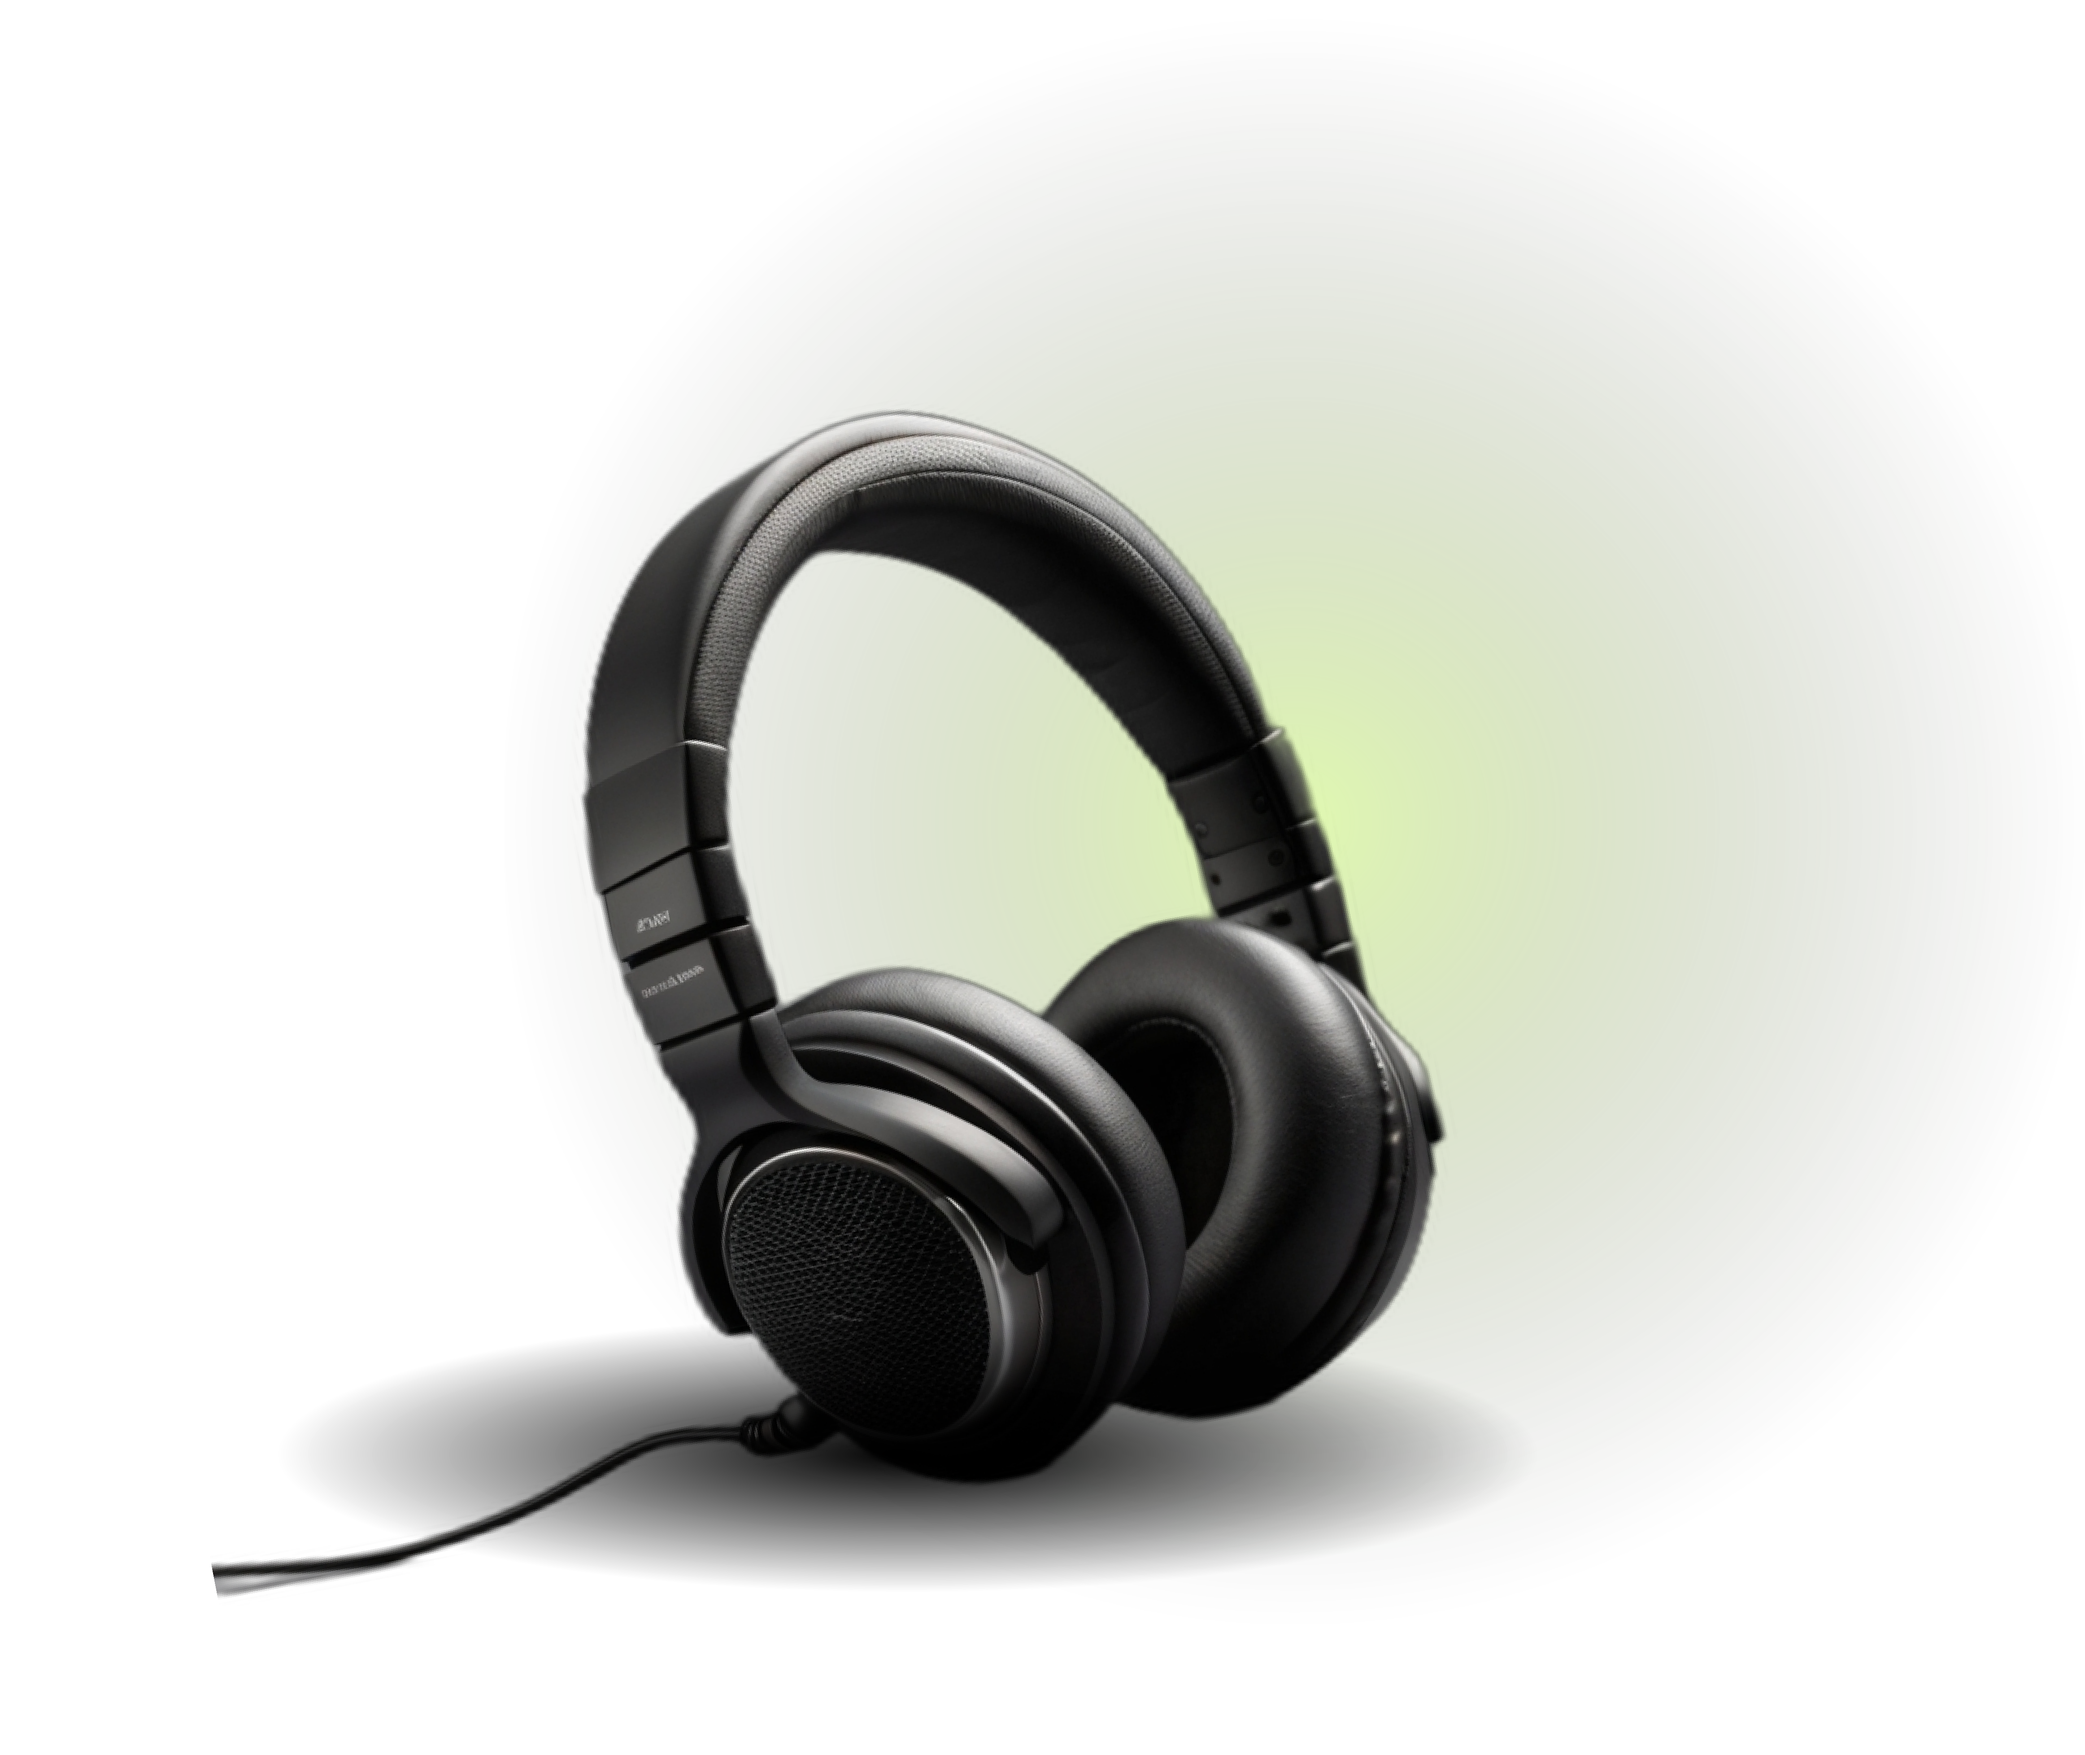
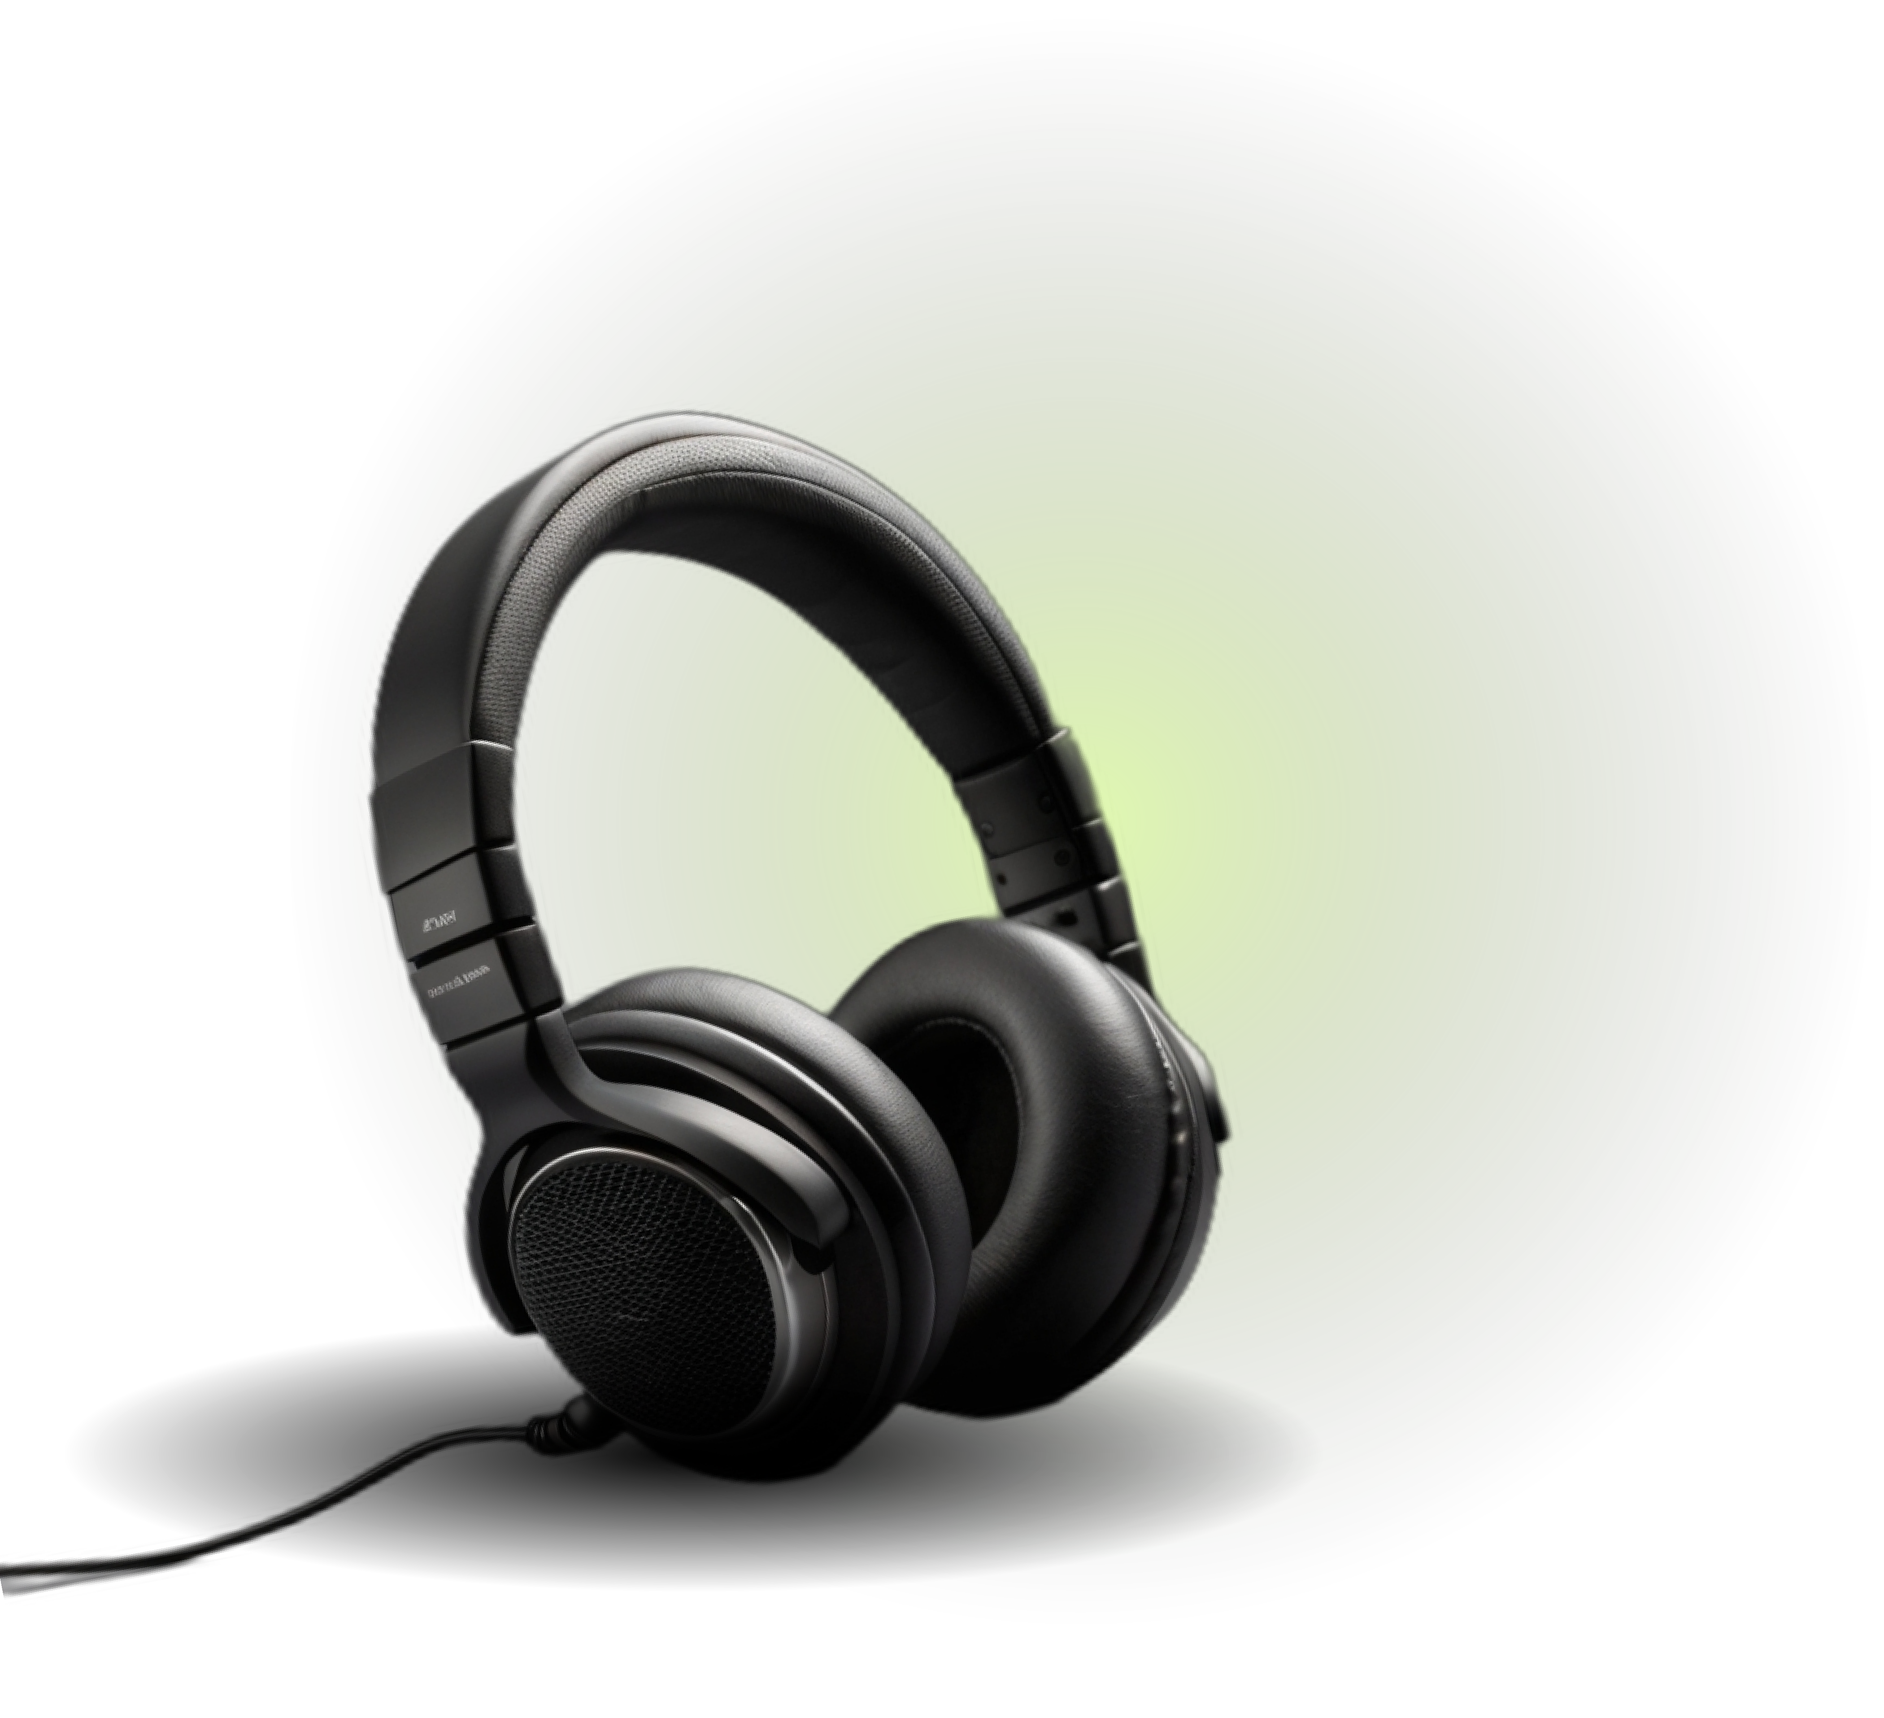
Added first item to 'products' section

Changed region(s): [[0.0, 0.2175, 0.7172, 0.9321]]

diff --git a/src/style.scss b/src/style.scss
@@ -21,16 +21,20 @@ $main-green: #b1ef3a;
 
 html {
 	font-size: 62.5%;
+	scroll-behavior: smooth;
 }
 
 body {
+	display: flex;
 	max-width: 1920px;
-	// height: 100svh;
+	height: 100svh;
 	font-size: 1.6rem;
 	font-family: var(--font-regular);
 	background-image: url('/images/background.jpg');
 	background-size: cover;
 	background-repeat: no-repeat;
+	background-attachment: local;
+	overflow-x: hidden;
 }
 
 body::-webkit-scrollbar {
@@ -45,9 +49,11 @@ header {
 	top: 0;
 	left: 0;
 	right: 0;
+	width: 100%;
+	padding-top: 0.5em;
 	font-size: 2.4rem;
 	background: transparent;
-	z-index: 1000;
+	z-index: 10;
 
 	.logo {
 		display: flex;
@@ -96,11 +102,12 @@ main {
 		display: flex;
 		justify-content: center;
 		align-items: center;
-		height: 100svh;
+		// height: 100svh;
+		height: 100%;
+		margin-inline: 0;
 		margin-bottom: 1em;
 
 		.main-background {
-			position: relative;
 			background-image: url('/images/main-background.png');
 			background-position-x: 12%;
 			background-size: cover;
@@ -123,17 +130,21 @@ main {
 		position: relative;
 		display: grid;
 		grid-template-columns: repeat(9, 1fr);
-		grid-template-rows: repeat(10, 1fr);
+		// grid-template-rows: repeat(10, 1fr);
+		grid-template-rows: repeat(3, 1fr);
 		height: 100svh;
 
 		.shadow {
 			position: relative;
 			display: grid;
-			grid-column: 1/7;
-			grid-row: 1/8;
+			grid-column: 1/10;
+			// grid-row: 1/11;
+			grid-row: 1/4;
 			z-index: 0;
+
 			&__up,
 			&__down {
+				display: grid;
 				font-size: 36rem;
 				line-height: 1em;
 				text-transform: uppercase;
@@ -144,24 +155,28 @@ main {
 			&__up {
 				padding-left: 0.2em;
 			}
+			&__down {
+				padding-bottom: 0.7em;
+			}
 		}
 
 		.about-text {
 			position: relative;
 			display: grid;
 			grid-column: 3/8;
-			grid-row: 4/8;
-			padding-inline: 2em;
+			// grid-row: 4/8;
+			grid-row: 1/3;
+			margin-top: 16em;
+			margin-inline: 2em;
+			z-index: 1;
 
 			&__title {
 				color: $main-green;
 				text-transform: uppercase;
-				margin-bottom: 0;
 			}
 
 			&__description {
 				color: $light-grey;
-				// padding-top: 1em;
 				padding-bottom: 0.5em;
 				line-height: 1.6em;
 			}
@@ -170,24 +185,26 @@ main {
 		.counter {
 			position: relative;
 			display: grid;
-			grid-column: 3/8;
-			grid-row: 9/11;
 
-			&__box {
+			grid-column: 3/8;
+			// grid-row: 9/10;
+			grid-row: 3/4;
+			margin-bottom: 3em;
+			z-index: 1;
+
+			.counter__box {
 				display: flex;
 				justify-content: space-around;
 				align-items: center;
-				
+
 				&--item {
 					position: relative;
 					text-align: center;
-
 
 					.number {
 						font-size: 2.6rem;
 						font-weight: bold;
 						color: $pure-white;
-						
 						margin-bottom: 1em;
 					}
 
@@ -196,6 +213,89 @@ main {
 						font-size: 2rem;
 						font-family: var(--font-thin);
 						color: $light-grey;
+					}
+				}
+			}
+		}
+	}
+
+	#products {
+		position: relative;
+		display: grid;
+		grid-template-columns: repeat(10, 1fr);
+		grid-auto-rows: 1fr;
+
+		.product-shadow {
+			display: grid;
+			justify-content: center;
+			grid-column: 1/11;
+			grid-row: 1/2;
+			z-index: 0;
+
+			&__up,
+			&__down {
+				font-size: 36rem;
+				line-height: 1em;
+				text-transform: uppercase;
+				font-weight: bold;
+				color: #cccccc18;
+			}
+
+			&__up {
+				margin-left: 2.8em;
+			}
+			&__down {
+				margin-left: 2.1em;
+			}
+		}
+
+		.product-overview {
+			position: relative;
+			display: grid;
+			grid-column: 1/11;
+			grid-row: 1/3;
+			z-index: 1;
+
+			.item-1 {
+				position: relative;
+				display: flex;
+
+				justify-content: space-between;
+				align-items: center;
+
+				.image {
+					background-position: center;
+					background-size: cover;
+					width: 50%;
+				}
+
+				.text {
+					display: flex;
+					flex-direction: column;
+					padding-right: 10em;
+					padding-top: 6em;
+
+					color: $pure-white;
+
+					.item-name {
+						font-size: 3.5rem;
+						font-weight: normal;
+						color: $main-green;
+						margin: 0 0.2em 1em 0;
+					}
+
+					ul {
+						li {
+							font-family: var(--font-thin);
+							line-height: 2em;
+							list-style: none;
+							color: $light-grey;
+							// padding-right: 12em;
+
+							.main-topic {
+								font-weight: bold;
+							}
+						}
 					}
 				}
 			}

diff --git a/index.html b/index.html
@@ -27,10 +27,9 @@
 					/>
 				</a>
 			</div>
-			<!-- acitve turns-on -->
 			<nav>
 				<a href="#home" class="item">home</a>
-				<a href="#" class="item">products</a>
+				<a href="#products" class="item">products</a>
 				<a href="#" class="item">rent</a>
 				<a href="#" class="item">contact</a>
 			</nav>
@@ -50,8 +49,10 @@
 			</section>
 			<section id="about-us">
 				<div class="shadow">
-					<span class="shadow__up">about</span>
-					<span class="shadow__down">us</span>
+					<!-- <span class="shadow__up">about</span>
+					<span class="shadow__down">us</span> -->
+					<p class="shadow__up">about</p>
+					<p class="shadow__down">us</p>
 				</div>
 				<div class="about-text">
 					<h2 class="about-text__title">about us</h2>
@@ -77,25 +78,51 @@
 					</p>
 				</div>
 				<div class="counter">
-          <div class="counter__box">
-            <div class="counter__box--item">
-              <div class="number" data-number="452"></div>
-              <p class="counter-text">wypożyczone urządzenia</p>
-            </div>
-            <div class="counter__box--item">
-              <div class="number" data-number="126"></div>
-              <p class="counter-text">zadowoleni klienci</p>
-            </div>
-            <div class="counter__box--item">
-              <div class="number" data-number="73"></div>
-              <p class="counter-text">obsłużone imprezy</p>
-            </div>
-            <div class="counter__box--item">
-              <div class="number" data-number="41"></div>
-              <p class="counter-text">zaopatrzone sklepy</p>
-            </div>
-          </div>
-					
+					<div class="counter__box">
+						<div class="counter__box--item">
+							<div class="number" data-number="452">0</div>
+							<p class="counter-text">wypożyczone urządzenia</p>
+						</div>
+						<div class="counter__box--item">
+							<div class="number" data-number="126">0</div>
+							<p class="counter-text">zadowoleni klienci</p>
+						</div>
+						<div class="counter__box--item">
+							<div class="number" data-number="73">0</div>
+							<p class="counter-text">obsłużone imprezy</p>
+						</div>
+						<div class="counter__box--item">
+							<div class="number" data-number="41">0</div>
+							<p class="counter-text">zaopatrzone sklepy</p>
+						</div>
+					</div>
+				</div>
+			</section>
+			<section id="products">
+				<div class="product-shadow">
+					<p class="product-shadow__up">prod</p>
+					<p class="product-shadow__down">ucts</p>
+				</div>
+				<div class="product-overview">
+					<div class="item-1">
+						<img src="/images/headphones.png" class="image" alt="picture of black headphones">
+						
+						<div class="text">
+							<h2 class="item-name">Słuchawki nauszne HRS-200</h2>
+							<ul>
+								<li><span class="main-topic">Doskonała jakość dźwięku - </span> Zapewniają klarowny i precyzyjny dźwięk, idealny doprofesjonalnego słuchania muzyki, miksu lub masteringu.
+								</li>
+								<li><span class="main-topic">Wygodne i ergonomiczne - </span>Zapewniają wygodę noszenia nawet przez długie godziny, dziękiregulowanym pałąkom i miękkim poduszkom nausznym.
+								</li>
+								<li><span class="main-topic">Izolacja dźwięku - </span>Doskonale tłumią dźwięki z otoczenia, pozwalając na skupieniesię na muzyce bez zakłóceń z zewnątrz.
+								</li>
+								<li><span class="main-topic">Wiele zastosowań - </span>Doskonałe do studia nagraniowego, pracy w terenie lub dozastosowań domowych, oferując wyjątkową jakość dźwięku wkażdej sytuacji.
+								</li>
+								<li><span class="main-topic">Solidna konstrukcja - </span>Wykonane z wysokiej jakości materiałów, odporne na uszkodzeniamechaniczne i trwałe nawet przy intensywnym użytkowaniu.
+								</li>
+							</ul>
+						</div>
+					</div>					
 				</div>
 			</section>
 		</main>
